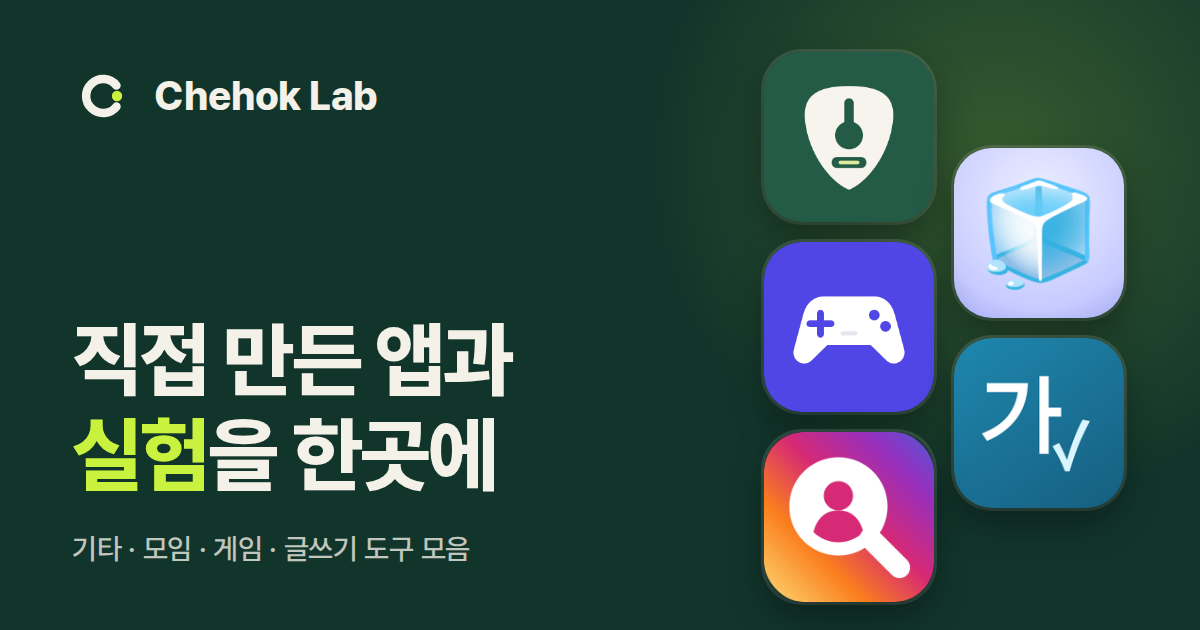
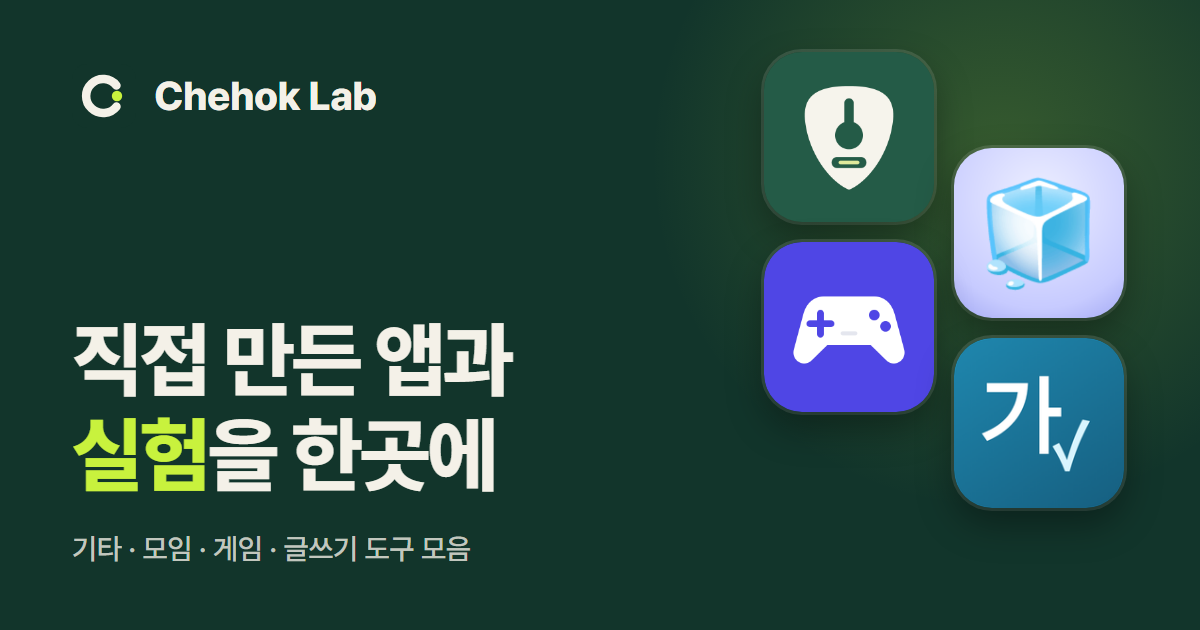
chore: hide Instagram Manager from directory

diff --git a/tests/unit/apps.test.js b/tests/unit/apps.test.js
@@ -10,14 +10,13 @@ const URLS = [
   "https://icebreaker.dev-chehok.workers.dev/",
   "https://chehok.github.io/mini-games/",
   "https://chehok.github.io/spellchecker/",
-  "https://chehok.github.io/instagram-manager/",
 ];
 
 describe("apps.json", () => {
-  it("has exactly five entries with stable ids", () => {
-    expect(apps).toHaveLength(5);
+  it("has exactly four entries with stable ids", () => {
+    expect(apps).toHaveLength(4);
     const ids = apps.map((a) => a.id);
-    expect(new Set(ids).size).toBe(5);
+    expect(new Set(ids).size).toBe(4);
   });
 
   it("uses the verified public URLs only", () => {
